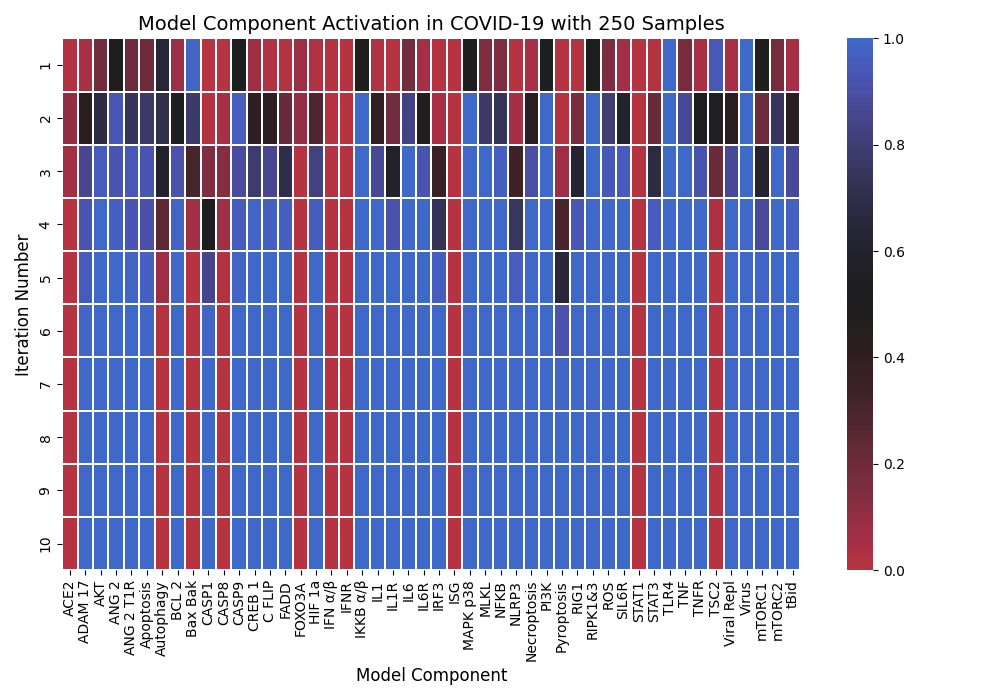
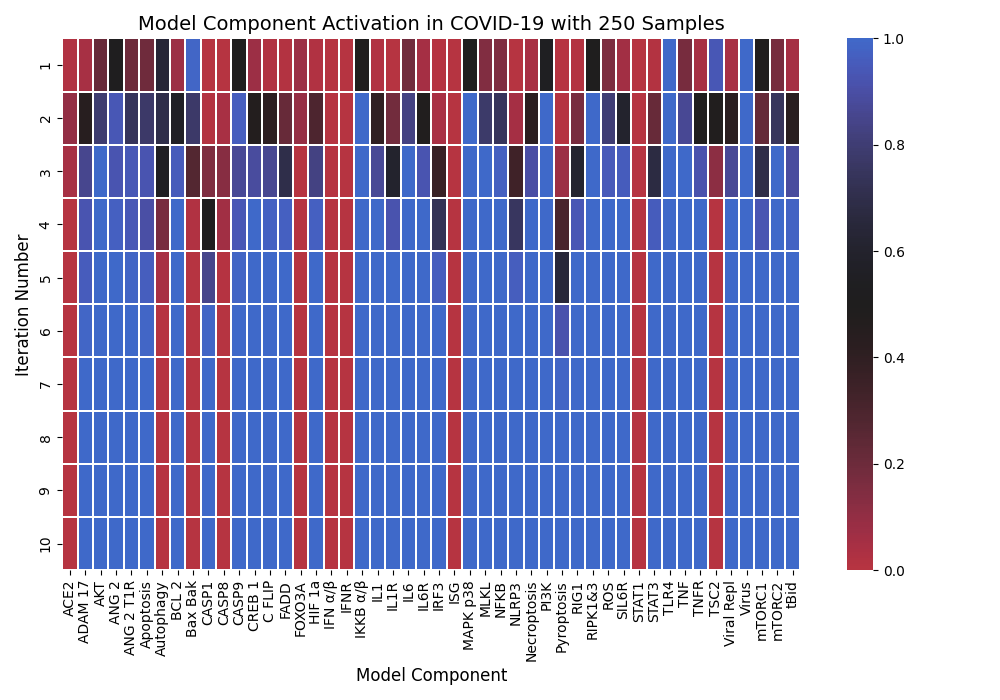
Changes to BNET file

diff --git a/BN.py b/BN.py
@@ -38,7 +38,7 @@ def BN(components, n_iter=25, orders=500):
     operations = {
         "ACE2": lambda: x.__setitem__("ACE2", not x["Virus"] or x["FOXO3A"]),
         "ADAM_17": lambda: x.__setitem__("ADAM_17", x["ANG_2_T1R"]),
-        "AKT": lambda: x.__setitem__("AKT", (x["mTORC2"] or x["PI3K"]) and not x["FOXO3A"]),
+        "AKT": lambda: x.__setitem__("AKT", x["mTORC2"] or x["PI3K"] or x["FOXO3A"]),
         "ANG_2": lambda: x.__setitem__("ANG_2", not x["ACE2"]),
         "ANG_2_T1R": lambda: x.__setitem__("ANG_2_T1R", x["ANG_2"]),
         "Apoptosis": lambda: x.__setitem__("Apoptosis", x["CASP8"] or x["CASP9"]),
@@ -86,11 +86,11 @@ def BN(components, n_iter=25, orders=500):
         "Virus": lambda: x.__setitem__("Virus", x["Virus"])
     }
 
-    x = {component: False for component in components}
-    x["Virus"] = True
-    x["ACE2"] = True
-    
     for order in np.arange(orders):
+        x = {component: False for component in components}
+        x["Virus"] = True
+        x["ACE2"] = True
+
         for i in np.arange(n_iter):
             indices = np.random.permutation(len(components))
             for idx in indices:
